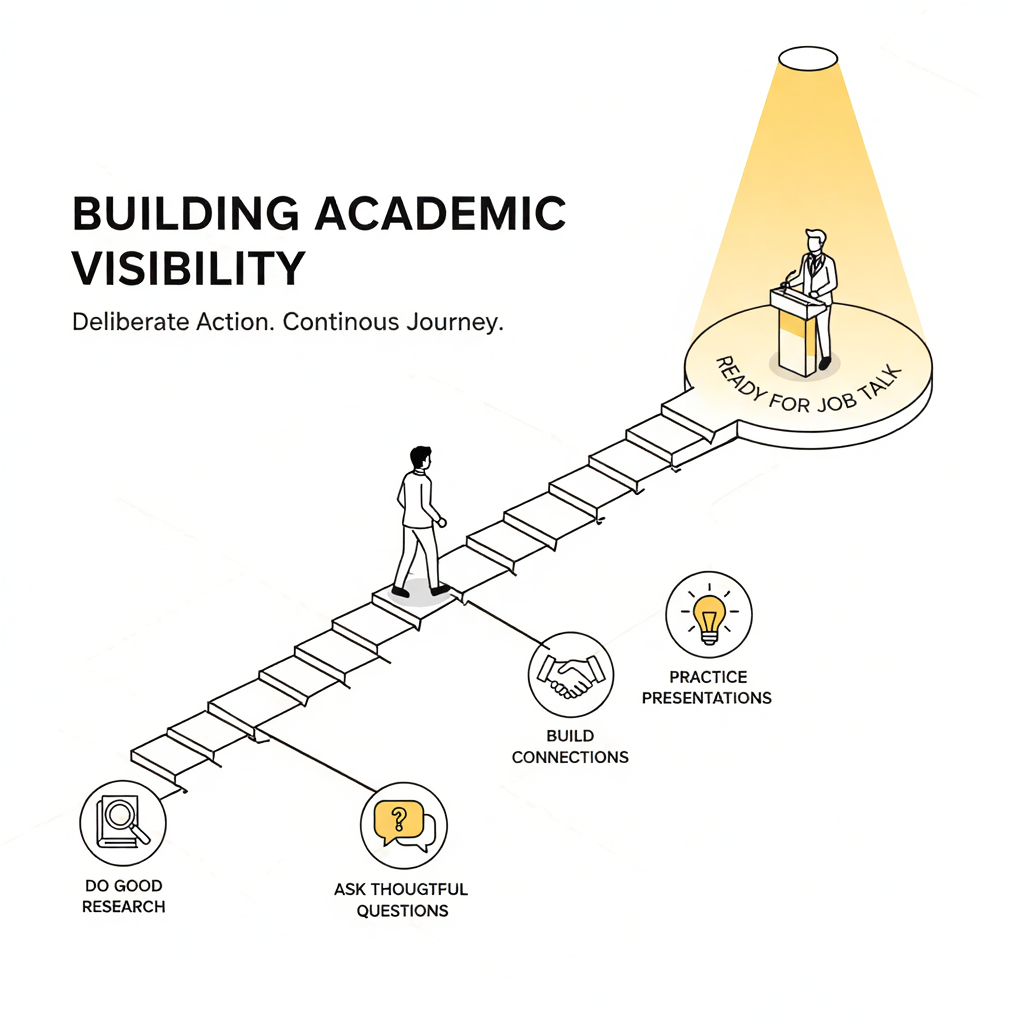
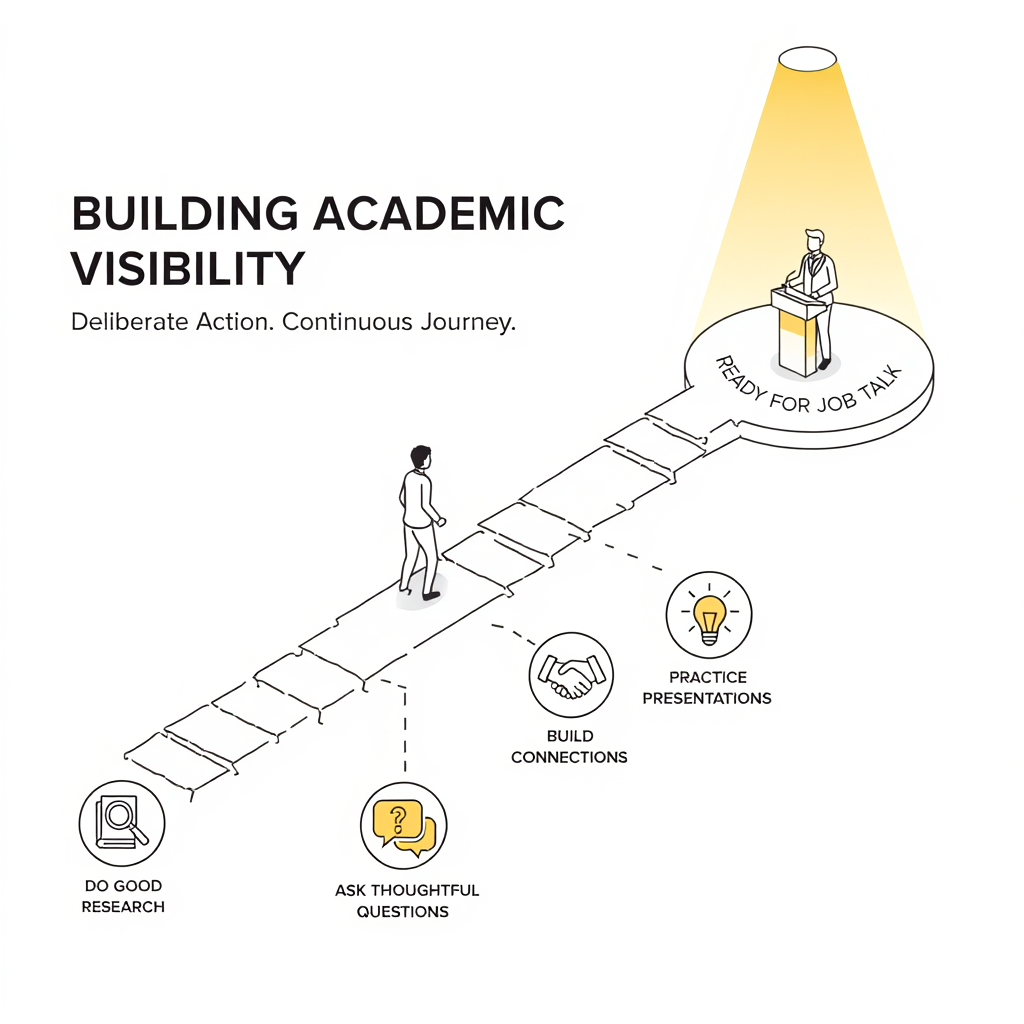
slam dunk update

diff --git a/blogs/jr_grads.html b/blogs/jr_grads.html
@@ -503,7 +503,7 @@
         </header>
 
         <article class="article-content">
-            <p class="lead">You are two years into your PhD, and the big question starts to creep in: <strong>Am I doing this right?</strong>  Most of the advice out there is for people at the finish line—graduating students—on job packets, interview scripts, and negotiation tactics. But there's far less for junior folks who are still deciding if the academic path is for them. This is for you. It’s what I learned (often the hard way) about work, visibility, community, and sanity—long before the job market was on the horizon.</p>
+            <p class="lead">You are a couple of years into your PhD, and the big question starts to creep in: <strong>Am I doing this right?</strong>  Most of the advice out there is for people at the finish line—graduating students—on job packets, interview scripts, and negotiation tactics. But there's far less for junior folks who are still deciding if the academic path is for them. This is for you. It’s what I learned (often the hard way) about work, visibility, community, and sanity—long before the job market was on the horizon.</p>
 
             <!-- <div class="toc">
                 <h3>Navigation</h3>
@@ -578,7 +578,7 @@
 
             <p>This often means resisting the urge to publish quickly by "slicing a project thin." It requires patience and sometimes, a tough call. My PhD advisor, looking at my timeline, was ready for me to graduate. But I had a gut feeling that one project needed more time to reach its full potential. I pushed to stay for one more year, and that decision led to what is arguably my most significant work.  </p>
                 
-            <p>Of course, timing matters. You can't always predict which papers will have major impact—research is inherently uncertain. Some papers take time to have visible impact. Some people find their defining project early, and for others, it takes longer. Both paths are perfectly fine. The key is to maintain an ambitious mindset. I've always loved my PhD advisor's provocative slogan, which he used to push his students: “What problem do I need to solve to become famous?” </p>
+            <p>Of course, timing matters. You can't always predict which papers will have major impact—research is inherently uncertain. Some papers take time to have visible impact. Some people find their defining project early, and for others, it takes longer. Both paths are perfectly fine. The key is to maintain an ambitious mindset. Aim for work that excites you and opens new questions, or alternatively, think of problems where researchers you admire would say "Why didn't I think of that?" or "Wow, that's a neat idea and really useful." To cultivate this kind of ambitious thinking, I've always loved my PhD advisor's provocative slogan: "What problem do I need to solve to become famous?" </p>
          
 
             <div class="quote-block">
